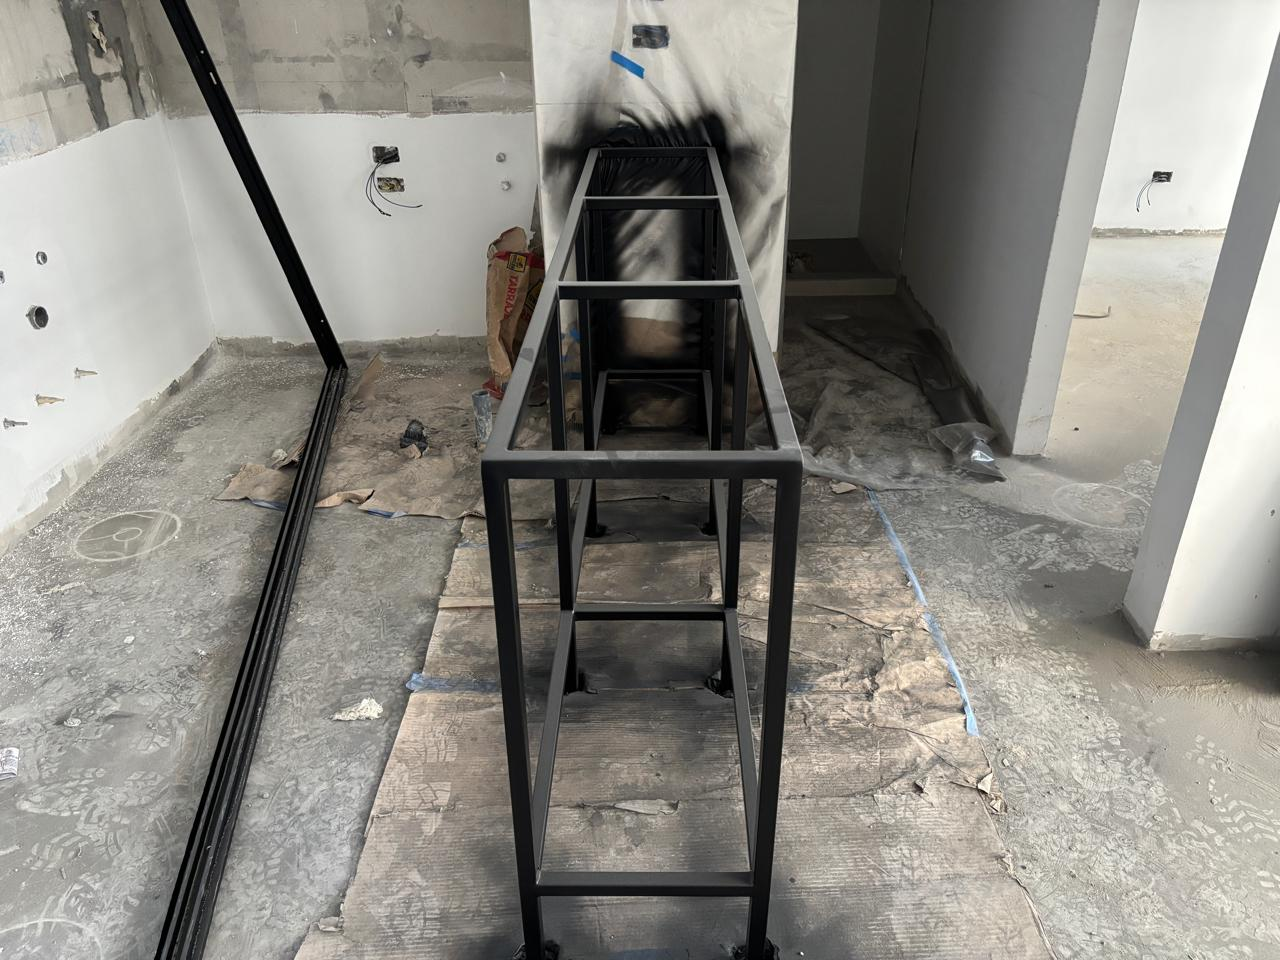
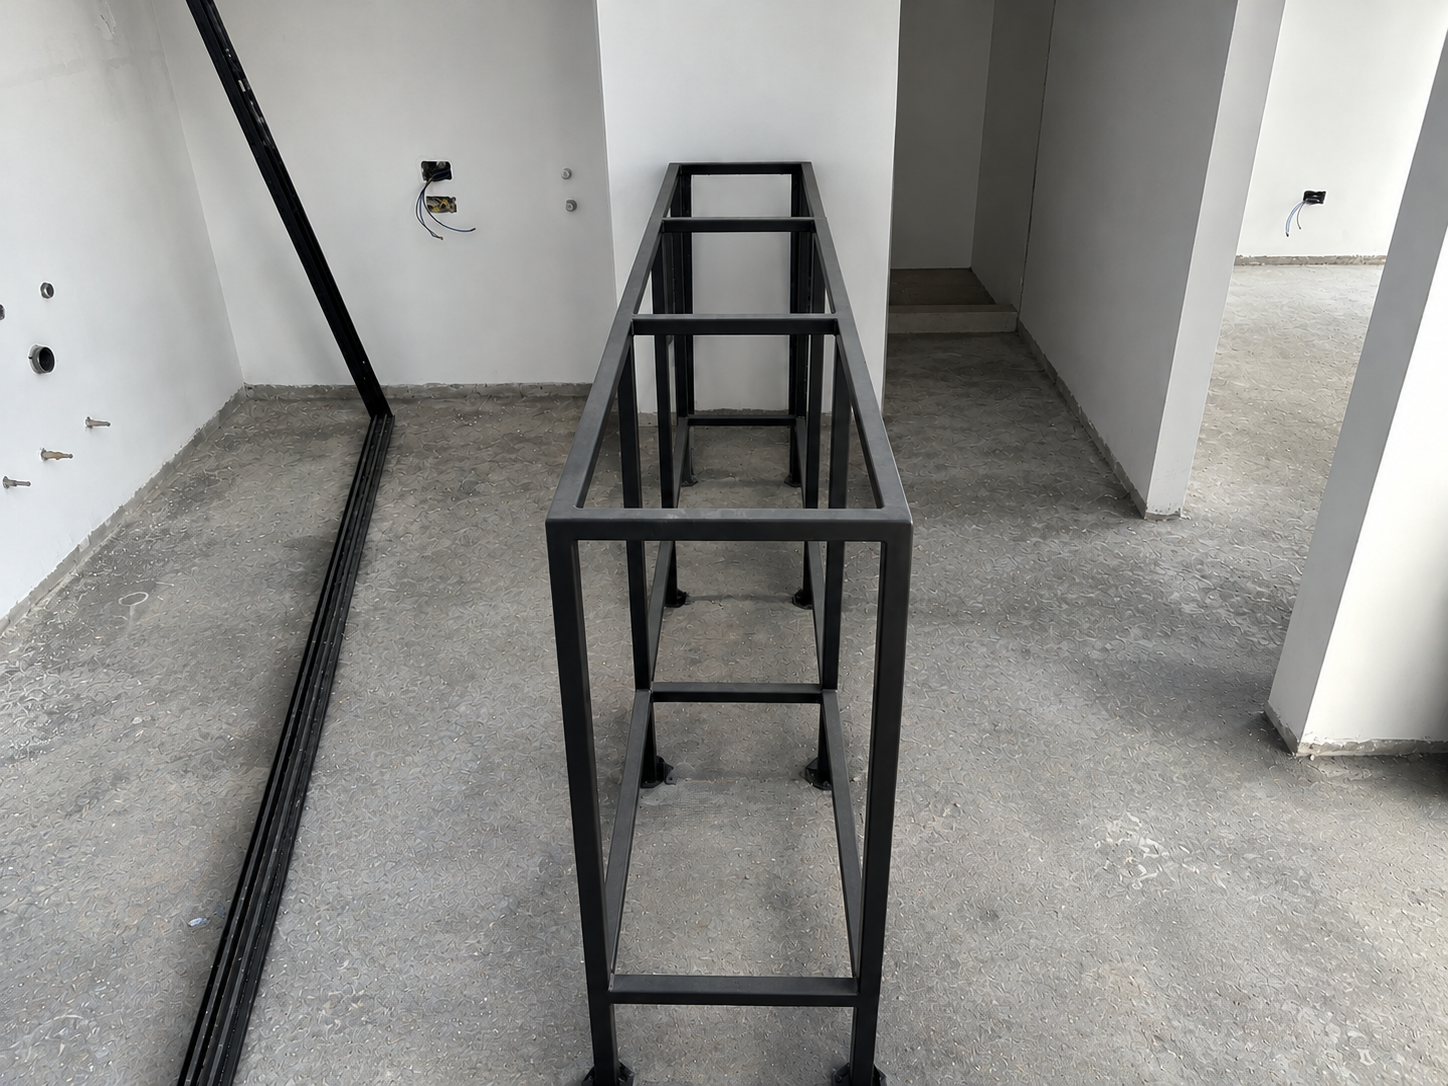
content(proyectos): unificar término mesa integrada en servicio 5

diff --git a/lib/proyectos-galeria.ts b/lib/proyectos-galeria.ts
@@ -149,30 +149,40 @@ export const GALERIAS: Record<string, GaleriaProyecto> = {
         ],
       },
       {
-        id: "pasamanos-locales",
-        titulo: "Pasamanos para locales comerciales",
+        id: "barandas-balcones",
+        titulo: "Barandas para balcones residenciales",
         descripcion:
-          "Instalación de pasamanos metálicos en escaleras de circulación para locales comerciales de Qantua Fase 2. Diseño moderno en acabado negro mate.",
-        tipo: "proceso",
+          "Fabricación e instalación de barandas metálicas en acabado negro mate para balcones residenciales de las Torres A, B y C de Qantua. El diseño uniforme realza la fachada y aporta seguridad estructural, integrando una identidad visual moderna a todo el conjunto.",
+        tipo: "antes-despues",
         fotos: [
           {
-            src: "/img/proyectos/qantua/19-instalacion-pasamanos-locales-comerciales-qantua-fase-2.png",
-            etapa: "proceso",
-            alt: "Instalación de pasamanos metálicos en locales comerciales de Qantua Fase 2",
+            src: "/img/proyectos/qantua/05-instalacion-barandas-balcones-qantua-fase-2.png",
+            etapa: "antes",
+            alt: "Instalación de barandas metálicas para balcones durante la etapa de construcción en Qantua Fase 2",
+          },
+          {
+            src: "/img/proyectos/qantua/01-barandas-balcones-qantua.png",
+            etapa: "despues",
+            alt: "Barandas metálicas en acabado negro mate terminadas en balcones de Qantua Fase 1",
           },
         ],
       },
       {
         id: "mesa-isla",
-        titulo: "Estructura metálica para mesa tipo isla",
+        titulo: "Estructura metálica para mesa integrada",
         descripcion:
-          "Fabricación e instalación de estructura metálica tubular para soporte de mesa tipo isla en departamentos residenciales de Qantua Fase 2.",
-        tipo: "final",
+          "Fabricación e instalación de estructura metálica tubular para soporte de mesa integrada en departamentos residenciales de Qantua Fase 2. La solución combina funcionalidad y diseño en acabado negro mate, integrándose al mobiliario interior del ambiente.",
+        tipo: "antes-despues",
         fotos: [
           {
+            src: "/img/proyectos/qantua/15-estructura-metalica-mesa-proceso-qantua-fase-2.png",
+            etapa: "antes",
+            alt: "Estructura metálica para mesa integrada durante el proceso de fabricación en Qantua Fase 2",
+          },
+          {
             src: "/img/proyectos/qantua/22-estructura-metalica-mesa-departamento-qantua.png",
-            etapa: "final",
-            alt: "Estructura metálica para mesa tipo isla en departamento de Qantua Fase 2",
+            etapa: "despues",
+            alt: "Estructura metálica para mesa integrada terminada en departamento de Qantua Fase 2",
           },
         ],
       },
@@ -180,12 +190,17 @@ export const GALERIAS: Record<string, GaleriaProyecto> = {
         id: "rejillas-ductos",
         titulo: "Rejillas metálicas para ductos técnicos",
         descripcion:
-          "Fabricación e instalación de rejillas metálicas para ductos técnicos en las torres de Qantua Fase 1 y Fase 2. Permiten tránsito seguro para labores de inspección y mantenimiento.",
-        tipo: "final",
+          "Fabricación e instalación de rejillas metálicas para ductos técnicos en las torres de Qantua Fase 1 y Fase 2. Permiten el tránsito seguro y la ventilación de áreas de inspección y mantenimiento.",
+        tipo: "antes-despues",
         fotos: [
           {
+            src: "/img/proyectos/qantua/14-rejilla-metalica-ventilacion-ducto-qantua-fase-1.png",
+            etapa: "antes",
+            alt: "Ducto técnico antes de la instalación de rejilla metálica en Qantua Fase 1",
+          },
+          {
             src: "/img/proyectos/qantua/23-rejilla-metalica-ducto-tecnico-qantua.png",
-            etapa: "final",
+            etapa: "despues",
             alt: "Rejilla metálica instalada en ducto técnico de Qantua",
           },
         ],
@@ -375,11 +390,11 @@ export const GALERIAS: Record<string, GaleriaProyecto> = {
       },
       {
         src: "/img/proyectos/qantua/22-estructura-metalica-mesa-departamento-qantua.png",
-        titulo: "Estructura metálica para mesa tipo isla",
+        titulo: "Estructura metálica para mesa integrada",
         descripcion:
-          "Fabricación e instalación de estructura metálica tubular para soporte de mesa tipo isla en departamentos residenciales de Qantua Fase 2.",
+          "Fabricación e instalación de estructura metálica tubular para soporte de mesa integrada en departamentos residenciales de Qantua Fase 2.",
         categoria: "mobiliario",
-        alt: "Estructura metálica para mesa tipo isla en departamento de Qantua Fase 2",
+        alt: "Estructura metálica para mesa integrada en departamento de Qantua Fase 2",
       },
       {
         src: "/img/proyectos/qantua/23-rejilla-metalica-ducto-tecnico-qantua.png",
